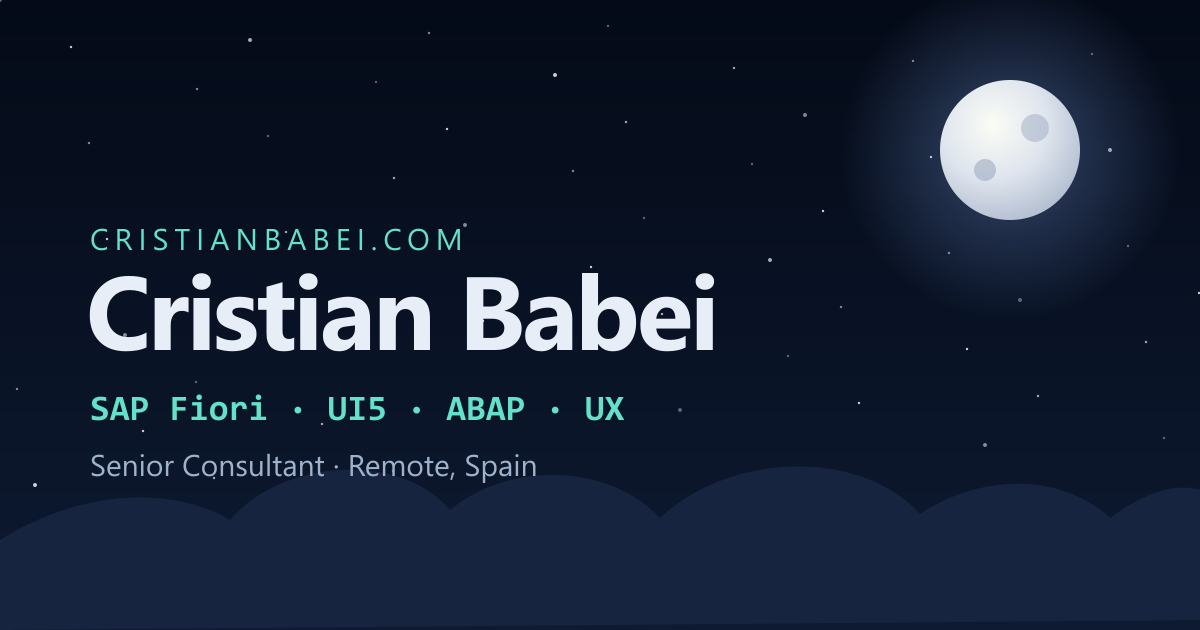
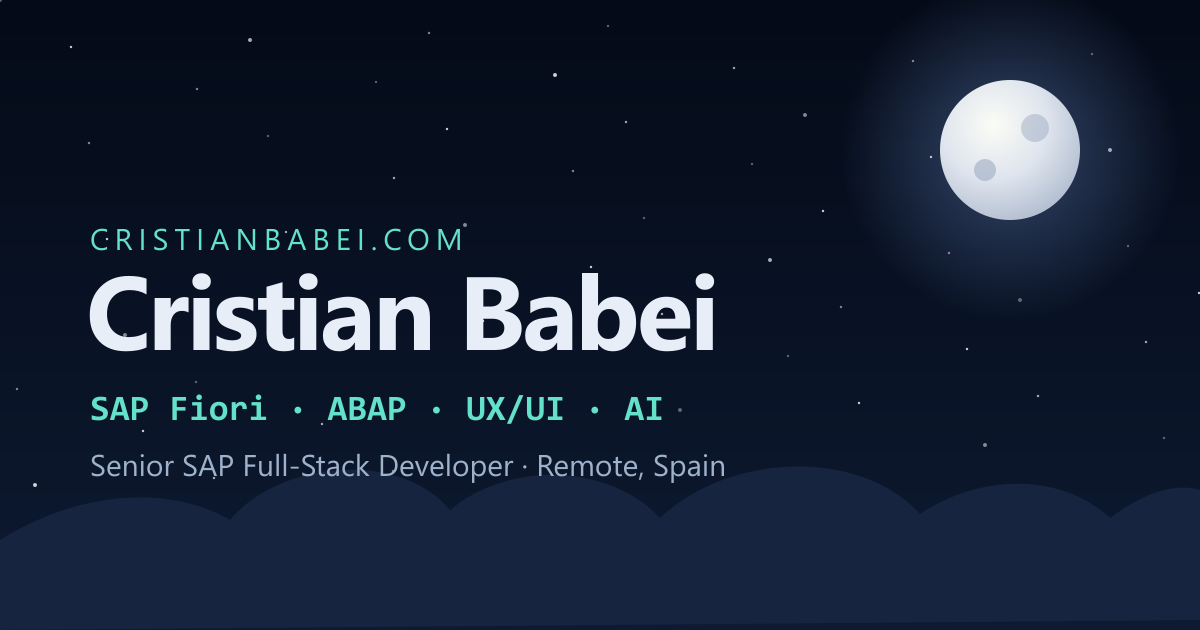
SEO, AI summary, share images, copy edits, compatibility and a11y fixes
- Story page: longer title and description; Person schema uses the same
  real photo on every page and links the Credly profile.
- /llms.txt generated from the site data for AI assistants.
- Share images updated to the full-stack positioning.
- Spanish copy: consistent 'full stack', no comma before 'o'.
- Job dates wrap on 320px phones instead of widening the page.
- Dropdowns fall back to a class toggle where the Popover API is missing.
- Day theme contrast: job durations and footer text now pass WCAG AA.
- Reduced motion also stops the cross-page fade.
- Photo viewer image has a real (lazy) src; 404 language links go home.

Changed region(s): [[0.1542, 0.7238, 0.6167, 0.754], [0.2775, 0.6333, 0.555, 0.6635]]

diff --git a/src/i18n/ui.ts b/src/i18n/ui.ts
@@ -10,9 +10,9 @@ export const ui = {
     'meta.title': 'Cristian Babei – SAP Full-Stack Developer (Fiori, ABAP & AI)',
     'meta.description':
       'Cristian Babei, SAP full-stack developer based in Spain: Fiori, UI5, ABAP and AI. SAP certified, with experience in RAP, OData, SAP BAIP and UX.',
-    'meta.story.title': 'My story – Cristian Babei',
+    'meta.story.title': 'My story – Cristian Babei, SAP Full-Stack Developer',
     'meta.story.description':
-      'The long version: how I went from web development to leading SAP projects, learning all the way.',
+      'The long version: how I went from web development to leading SAP Fiori, ABAP and AI projects, learning all the way.',
     'skip': 'Skip to content',
     'nav.about': 'About',
     'nav.experience': 'Experience',
@@ -100,9 +100,9 @@ export const ui = {
     'meta.title': 'Cristian Babei – Desarrollador SAP Full Stack (Fiori, ABAP e IA)',
     'meta.description':
       'Cristian Babei, desarrollador SAP full stack en España: Fiori, UI5, ABAP e IA. Certificado por SAP, con experiencia en RAP, OData, SAP BAIP y UX.',
-    'meta.story.title': 'Mi historia – Cristian Babei',
+    'meta.story.title': 'Mi historia – Cristian Babei, desarrollador SAP full stack',
     'meta.story.description':
-      'La versión larga: cómo pasé del desarrollo web a liderar proyectos SAP, sin dejar de aprender por el camino.',
+      'La versión larga: cómo pasé del desarrollo web a liderar proyectos SAP de Fiori, ABAP e IA, sin dejar de aprender por el camino.',
     'skip': 'Saltar al contenido',
     'nav.about': 'Sobre mí',
     'nav.experience': 'Experiencia',
@@ -176,8 +176,8 @@ export const ui = {
     'game.prompt': '¡Atrapa al conejo! Arrástralo hasta Bambi',
     'game.caught': '¡Bambi lo pilló! (y lo soltó, claro)',
     'game.score': 'Atrapados',
-    'game.rabbit': 'Conejo. Arrástralo, o selecciónalo y usa las flechas.',
-    'game.treat': 'Chuche. Arrástrala hasta Bambi, o haz clic para dársela.',
+    'game.rabbit': 'Conejo. Arrástralo o selecciónalo y usa las flechas.',
+    'game.treat': 'Chuche. Arrástrala hasta Bambi o haz clic para dársela.',
     'game.treatPrompt': '¡Una chuche! Arrástrala hasta Bambi',
     'game.yum': '¡Ñam! ¡Gracias!',
     'game.treats': 'Chuches',

diff --git a/src/data/schema.ts b/src/data/schema.ts
@@ -1,4 +1,6 @@
+import { getImage } from 'astro:assets';
 import { type Lang, localePath } from '../i18n/ui';
+import photo from '../assets/portrait/cristian.png';
 import { profile, site, skillGroups } from './profile';
 import { certifications } from './extras';
 import { education, jobs } from './experience';
@@ -6,7 +8,7 @@ import { education, jobs } from './experience';
 const personId = `${site.url}/#person`;
 const websiteId = `${site.url}/#website`;
 
-function person(lang: Lang, image?: string) {
+function person(lang: Lang, image: string) {
   const current = jobs.find((j) => j.end === null && j.engagement === 'employee');
   return {
     '@type': 'Person',
@@ -15,7 +17,7 @@ function person(lang: Lang, image?: string) {
     givenName: site.firstName,
     familyName: site.lastName,
     url: `${site.url}/`,
-    image: image ?? `${site.url}/og-${lang}.png`,
+    image,
     jobTitle: profile.jobTitle[lang],
     description: profile.tagline[lang],
     address: { '@type': 'PostalAddress', addressCountry: 'ES' },
@@ -30,12 +32,15 @@ function person(lang: Lang, image?: string) {
       recognizedBy: { '@type': 'Organization', name: 'SAP' },
       ...(c.credly && { url: c.credly }),
     })),
-    sameAs: [site.linkedin, site.sapCommunity, site.github].filter(Boolean),
+    sameAs: [site.linkedin, site.sapCommunity, site.credly, site.github].filter(Boolean),
   };
 }
 
 /** ProfilePage + Person + WebSite graph, valid for both the home and the story page. */
-export function profileSchema(lang: Lang, page: string, name: string, description: string, image?: string) {
+export async function profileSchema(lang: Lang, page: string, name: string, description: string) {
+  // A real photo for Google (on white, as JPEG), the same on every page.
+  const portrait = await getImage({ src: photo, width: 640, format: 'jpg', background: '#ffffff' });
+  const image = new URL(portrait.src, site.url).href;
   const url = new URL(localePath(lang, page), site.url).href;
   return {
     '@context': 'https://schema.org',

diff --git a/src/pages/llms.txt.ts b/src/pages/llms.txt.ts
@@ -1,0 +1,57 @@
+import type { APIRoute } from 'astro';
+import { formatMonth, localePath } from '../i18n/ui';
+import { profile, site, skillGroups } from '../data/profile';
+import { education, jobs } from '../data/experience';
+import { certifications } from '../data/extras';
+
+// /llms.txt (llmstxt.org): a plain summary for AI assistants, built from the same data as the site.
+export const GET: APIRoute = () => {
+  const url = (page = '', lang: 'en' | 'es' = 'en') => new URL(localePath(lang, page), site.url).href;
+  const period = (start: string, end: string | null) => `${formatMonth(start, 'en')} – ${end ? formatMonth(end, 'en') : 'present'}`;
+
+  const text = `# ${site.name}
+
+> ${profile.jobTitle.en}: ${profile.role.en}. Based in Spain, working remotely. Contact through LinkedIn.
+
+In his own words: “${profile.tagline.en}”
+
+## Pages
+
+- [Home](${url()}): about, skills, experience, certifications, recommendations and hobbies (Spanish: ${url('', 'es')})
+- [My story](${url('about')}): the long version of his career and how he works (Spanish: ${url('about', 'es')})
+
+## Profiles
+
+- [LinkedIn](${site.linkedin})
+- [SAP Community](${site.sapCommunity})
+- [Credly (SAP certifications)](${site.credly})
+
+## Skills
+
+${skillGroups.map((g) => `- ${g.title.en}: ${g.items.join(', ')}`).join('\n')}
+
+## Experience
+
+${jobs
+  .map(
+    (j) =>
+      `- ${j.role.en}, ${j.company} (${j.engagement}, ${period(j.start, j.end)})` +
+      j.highlights.en.map((h) => `\n  - ${h}`).join(''),
+  )
+  .join('\n')}
+
+## Certifications
+
+${certifications.map((c) => `- [${c.name}](${c.credly}) (${c.year})`).join('\n')}
+
+## Education
+
+${education.map((e) => `- ${e.title.en}, ${e.school} (${e.years.replace(/\s/g, ' ')})`).join('\n')}
+
+## Languages
+
+Spanish, English, Romanian
+`;
+
+  return new Response(text, { headers: { 'Content-Type': 'text/plain; charset=utf-8' } });
+};

diff --git a/src/data/experience.ts b/src/data/experience.ts
@@ -168,7 +168,7 @@ export const jobs: Job[] = [
         'Applied Design Thinking to build intuitive, user-centred business apps.',
       ],
       es: [
-        'SAP full-stack (ABAP + SAPUI5) con metodología Agile en proyectos internacionales en Finlandia: Cash Management, Forecast Manager y Project Cost Planning.',
+        'SAP full stack (ABAP + SAPUI5) con metodología Agile en proyectos internacionales en Finlandia: Cash Management, Forecast Manager y Project Cost Planning.',
         'Design Thinking aplicado para crear apps de negocio intuitivas y centradas en el usuario.',
       ],
     },
@@ -221,7 +221,7 @@ export const jobs: Job[] = [
     location: { en: 'Asturias, Spain', es: 'Asturias, España' },
     highlights: {
       en: ['Full-stack web development: WordPress and Joomla sites plus custom apps in Java, PHP and JavaScript.'],
-      es: ['Desarrollo web full-stack: sitios WordPress y Joomla y apps a medida en Java, PHP y JavaScript.'],
+      es: ['Desarrollo web full stack: sitios WordPress y Joomla y apps a medida en Java, PHP y JavaScript.'],
     },
     tech: ['JavaScript'],
   },

diff --git a/src/styles/global.css b/src/styles/global.css
@@ -69,6 +69,12 @@
     transition-duration: 0.01ms !important;
     scroll-behavior: auto !important;
   }
+  /* The cross-page fade too. */
+  ::view-transition-group(*),
+  ::view-transition-old(*),
+  ::view-transition-new(*) {
+    animation: none !important;
+  }
 }
 
 @theme inline {
@@ -256,4 +262,11 @@
 /* Smooth cross-page transitions (language switch, story page) without a JS router. */
 @view-transition {
   navigation: auto;
+}
+
+/* Without the Popover API (Safari before 17) the dropdowns would show open; Header.astro toggles .is-open instead. */
+@supports not selector(:popover-open) {
+  [popover]:not(.is-open) {
+    display: none;
+  }
 }

diff --git a/src/data/extras.ts b/src/data/extras.ts
@@ -220,7 +220,7 @@ export const hobbies: Hobby[] = [
     title: { en: 'Gaming', es: 'Videojuegos' },
     text: {
       en: 'One of my oldest passions. I’ve always loved RPGs, strategy games, roguelikes and soulslikes such as Dark Souls.',
-      es: 'Una de mis pasiones más antiguas. Siempre me han encantado los juegos de rol, de estrategia, los roguelikes y los soulslike como Dark Souls.',
+      es: 'Una de mis pasiones más antiguas. Siempre me han encantado los juegos de rol, de estrategia, los roguelikes y los soulslikes como Dark Souls.',
     },
   },
   {

diff --git a/src/data/profile.ts b/src/data/profile.ts
@@ -15,6 +15,7 @@ export const site = {
   lastName: 'Babei',
   linkedin: 'https://www.linkedin.com/in/cristian-babei',
   sapCommunity: 'https://community.sap.com/t5/user/viewprofilepage/user-id/39513',
+  credly: 'https://www.credly.com/users/cristian-babei',
   // Extra profile for the Person schema (sameAs); left empty so it is not listed.
   github: '',
 };
